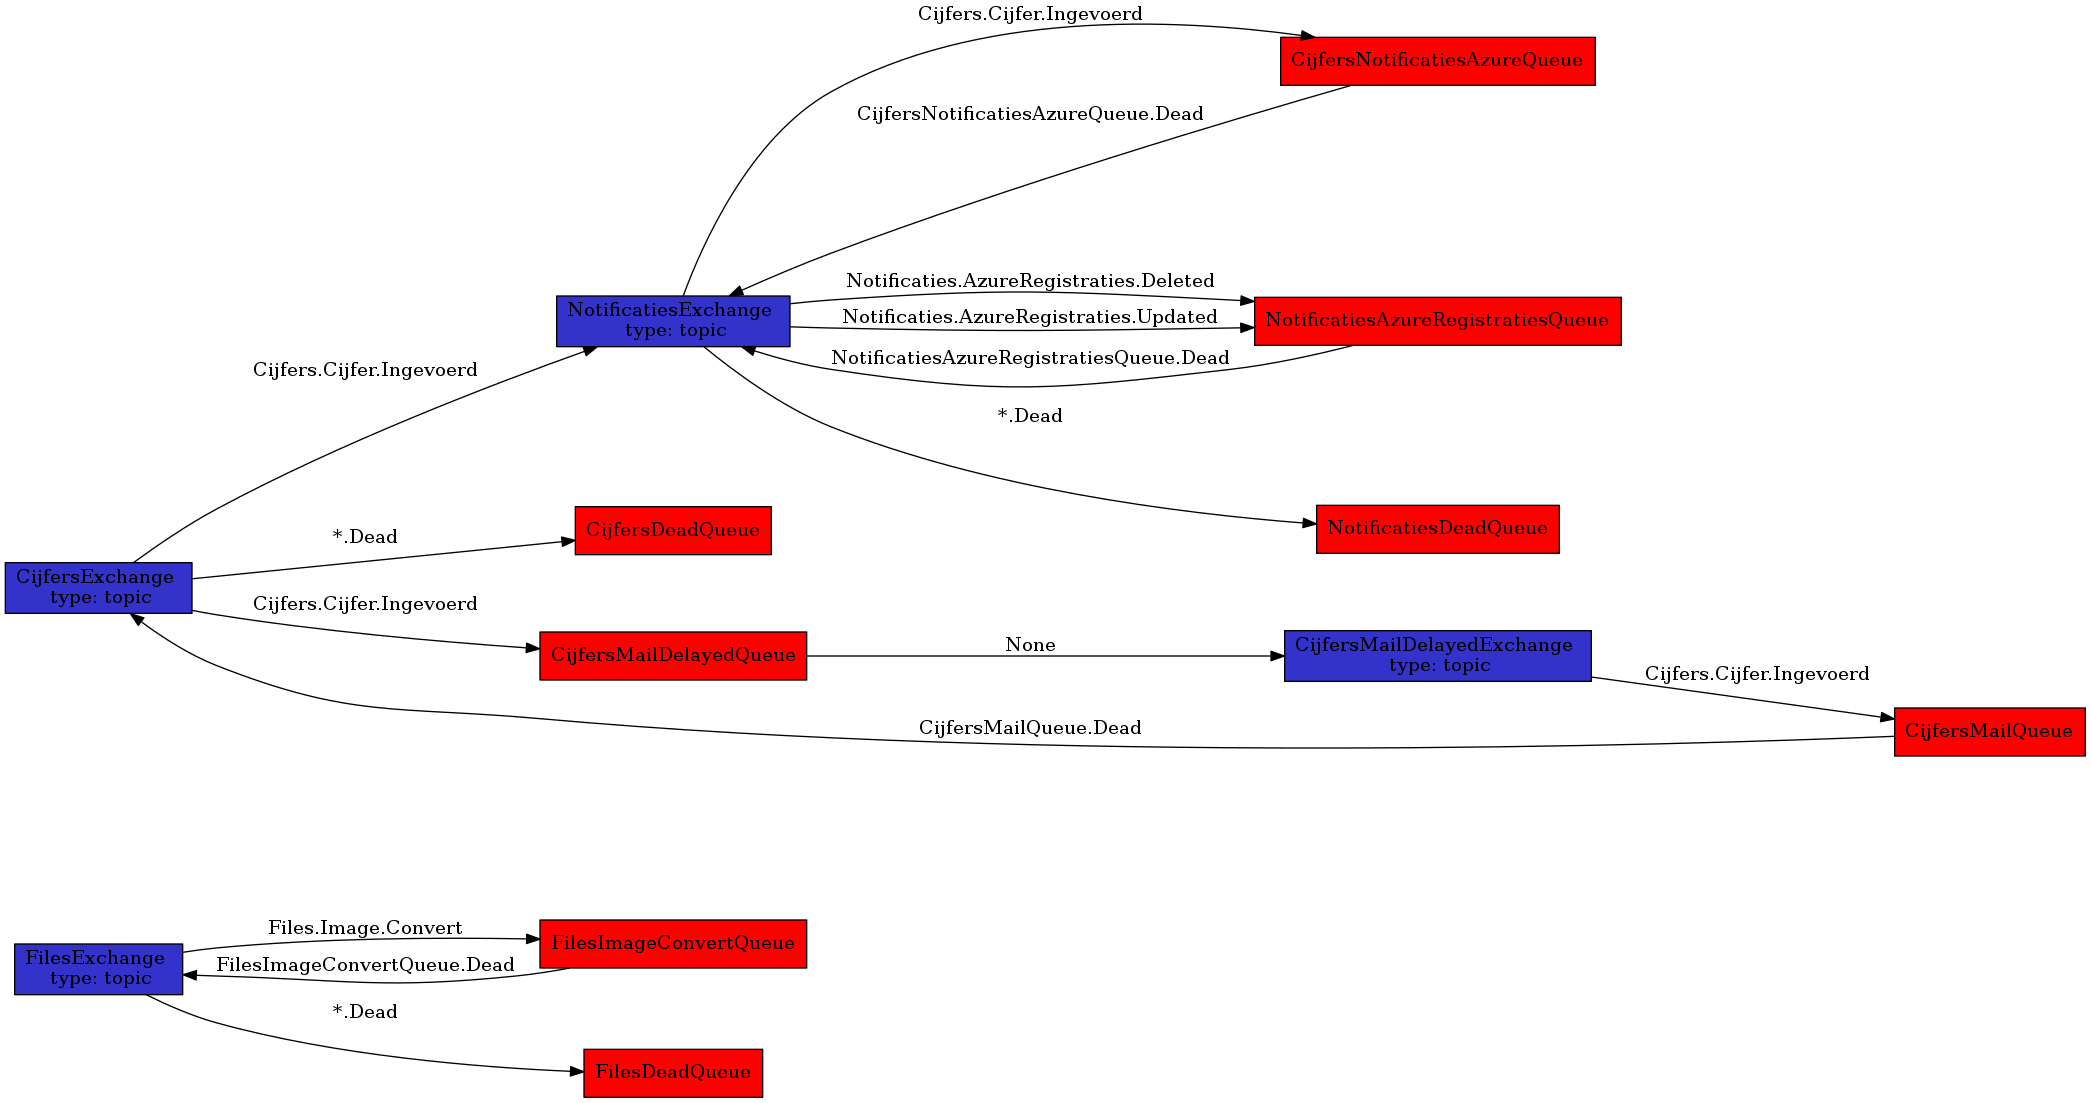
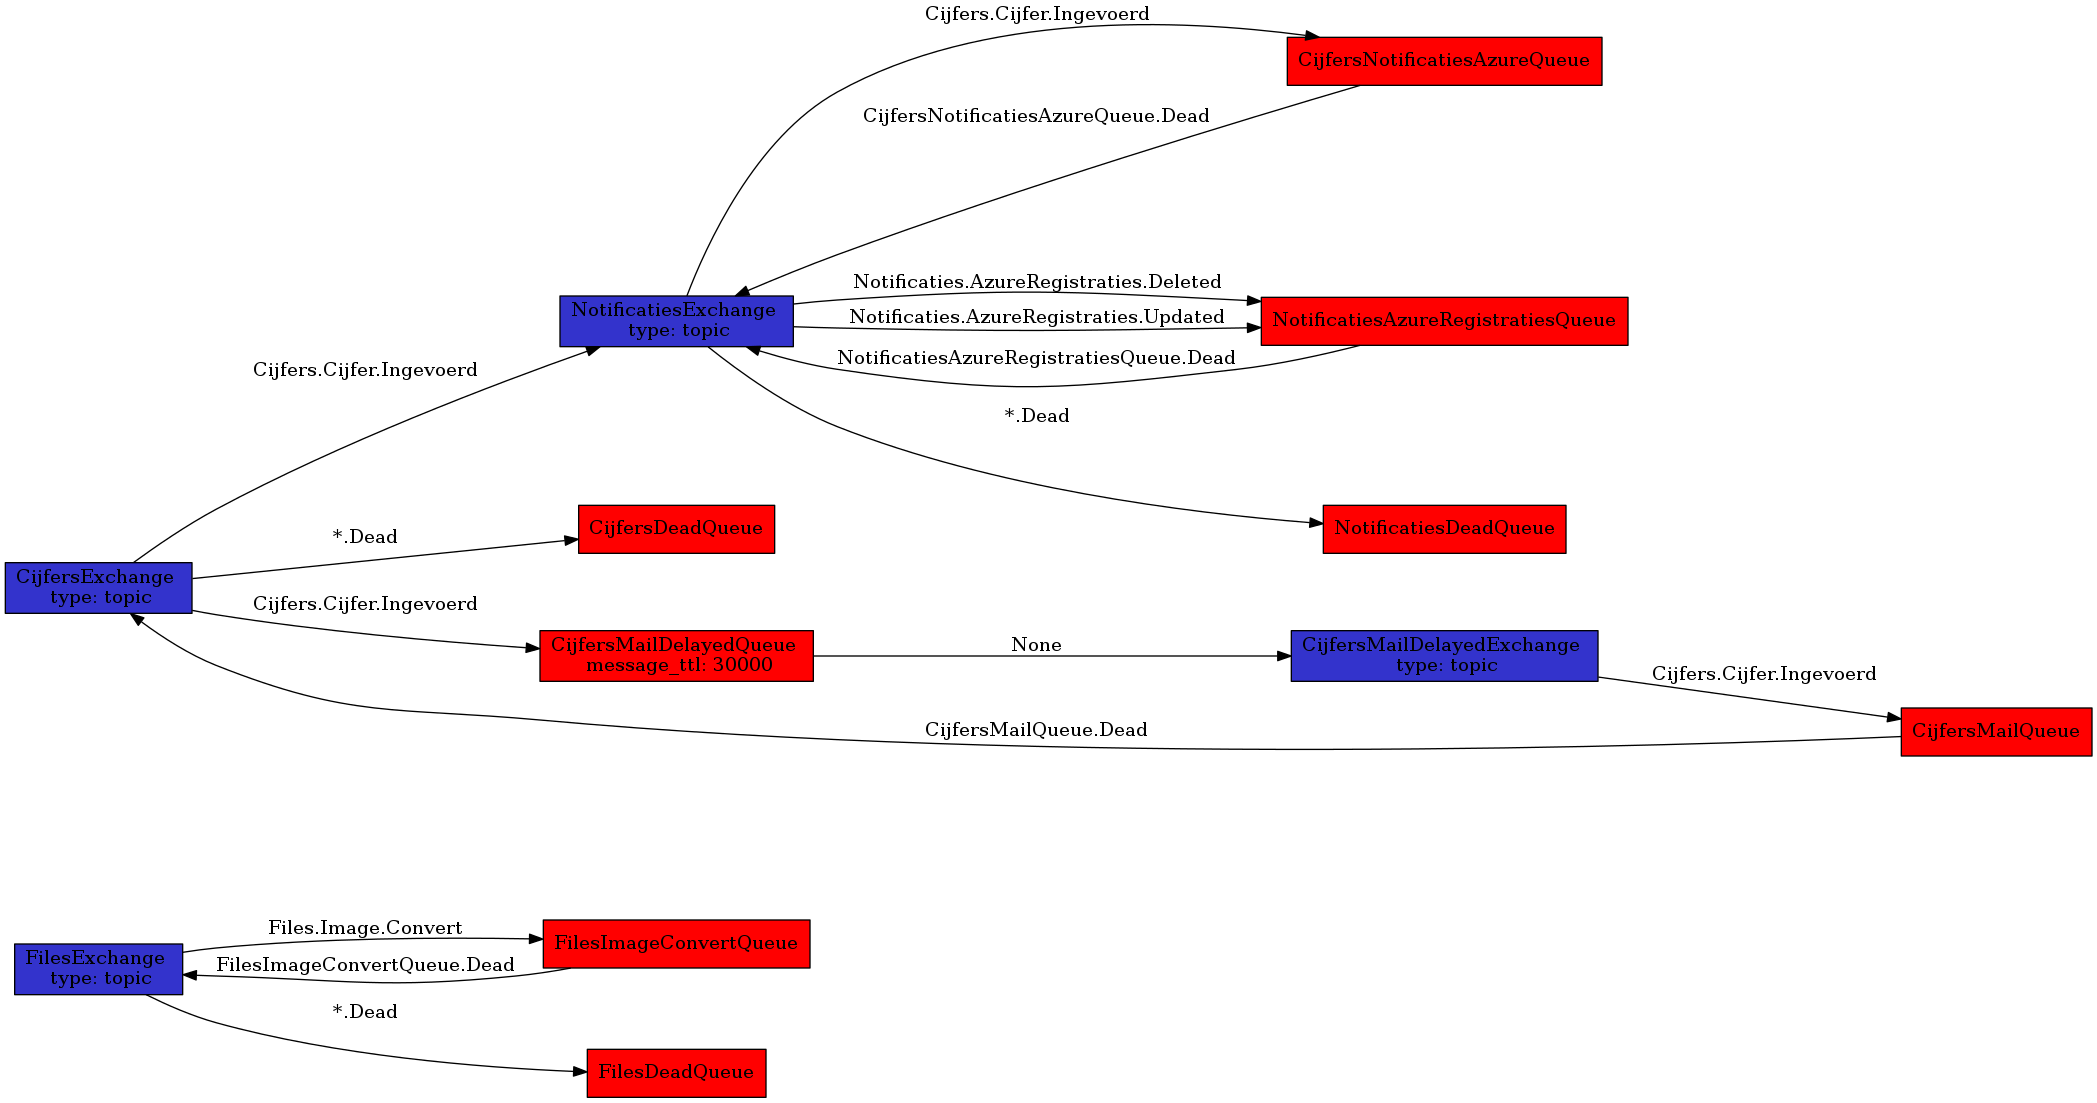
queue policies

diff --git a/app/broker.py b/app/broker.py
@@ -23,6 +23,13 @@ class Broker:
                 for binding
                 in self.definition['bindings']]
 
+    def queue_policies(self, queue_name):
+        ''' Queue policy, if any '''
+        return [policy
+                for policy
+                in self.policies()
+                if policy.pattern == queue_name]
+
     def policies(self):
         ''' Policies '''
         return [BrokerPolicy(policy)
@@ -56,10 +63,14 @@ class BrokerQueue:
         self.auto_delete = queue_definition['auto_delete']
         self.argurments = queue_definition['arguments']
 
-    def label(self):
+    def label(self, policies):
         ''' Queue label '''
-        template = '{}'
-        return template.format(self.name)
+        if policies and policies[0].definition.message_ttl is not None:
+            template = '{} \n message_ttl: {}'
+            return template.format(self.name, policies[0].definition.message_ttl)
+        else:
+            template = '{}'
+            return template.format(self.name)
 
 
 class BrokerBinding:

diff --git a/app/generator.py b/app/generator.py
@@ -32,8 +32,8 @@ def main():
                        shape='rectangle', fillcolor='#3333CC')
 
     for queue in broker.queues():
-        graph.add_node(queue.name, label=queue.label(), style='filled',
-                       shape='rectangle', fillcolor='#FF0000')
+        graph.add_node(queue.name, label=queue.label(broker.queue_policies(queue.name)),
+                       style='filled', shape='rectangle', fillcolor='#FF0000')
 
     for binding in broker.bindings():
         graph.add_edge(binding.source, binding.destination, label=binding.routing_key,
